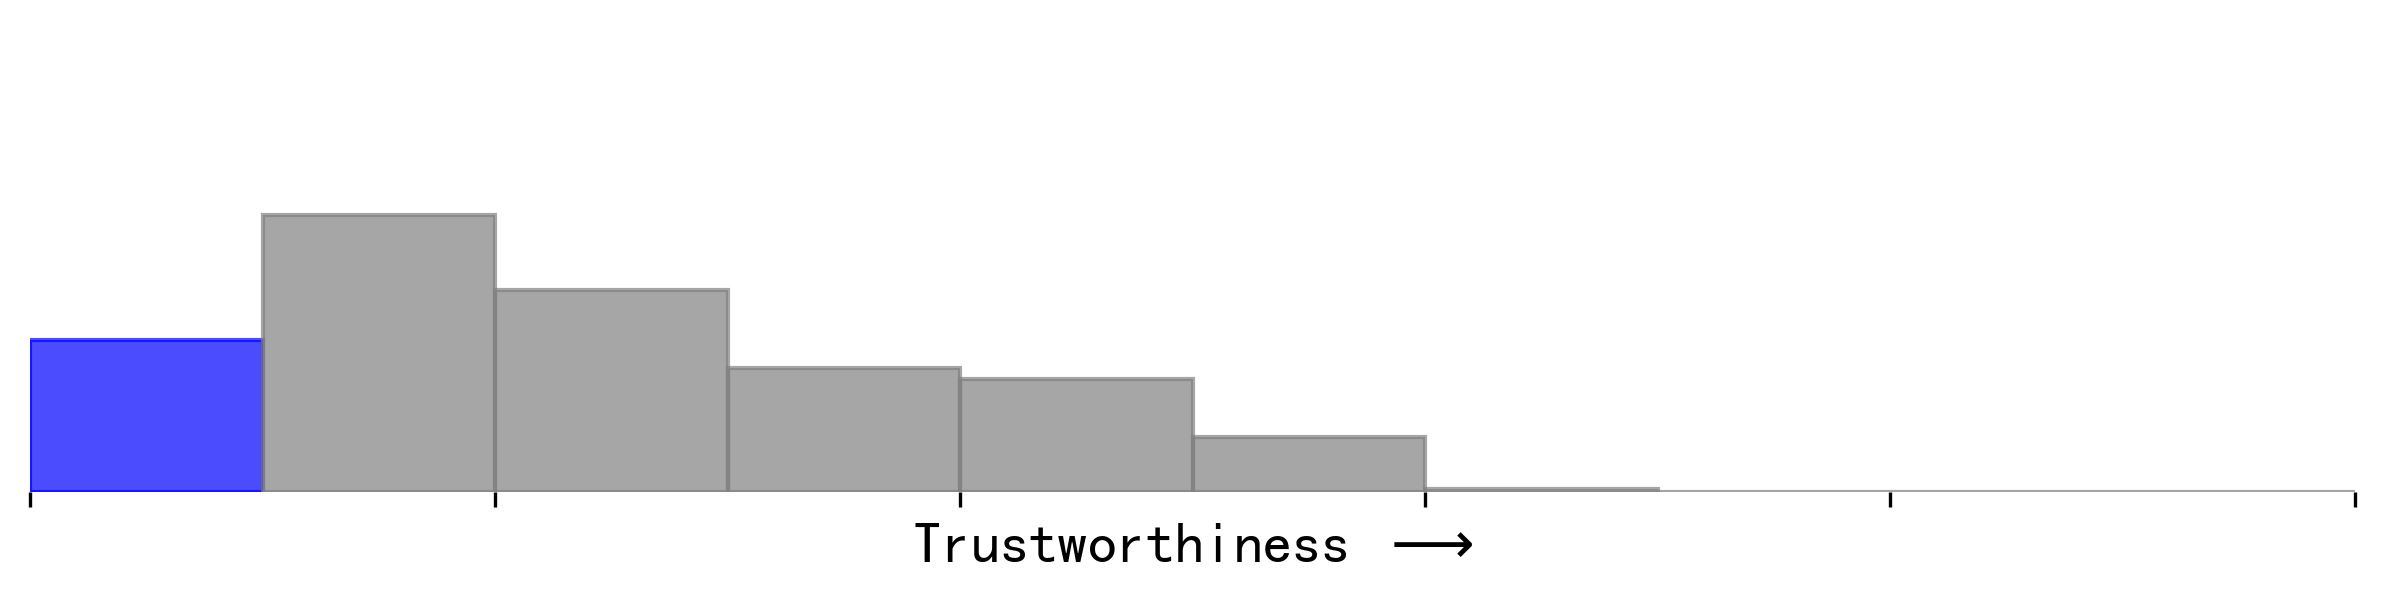
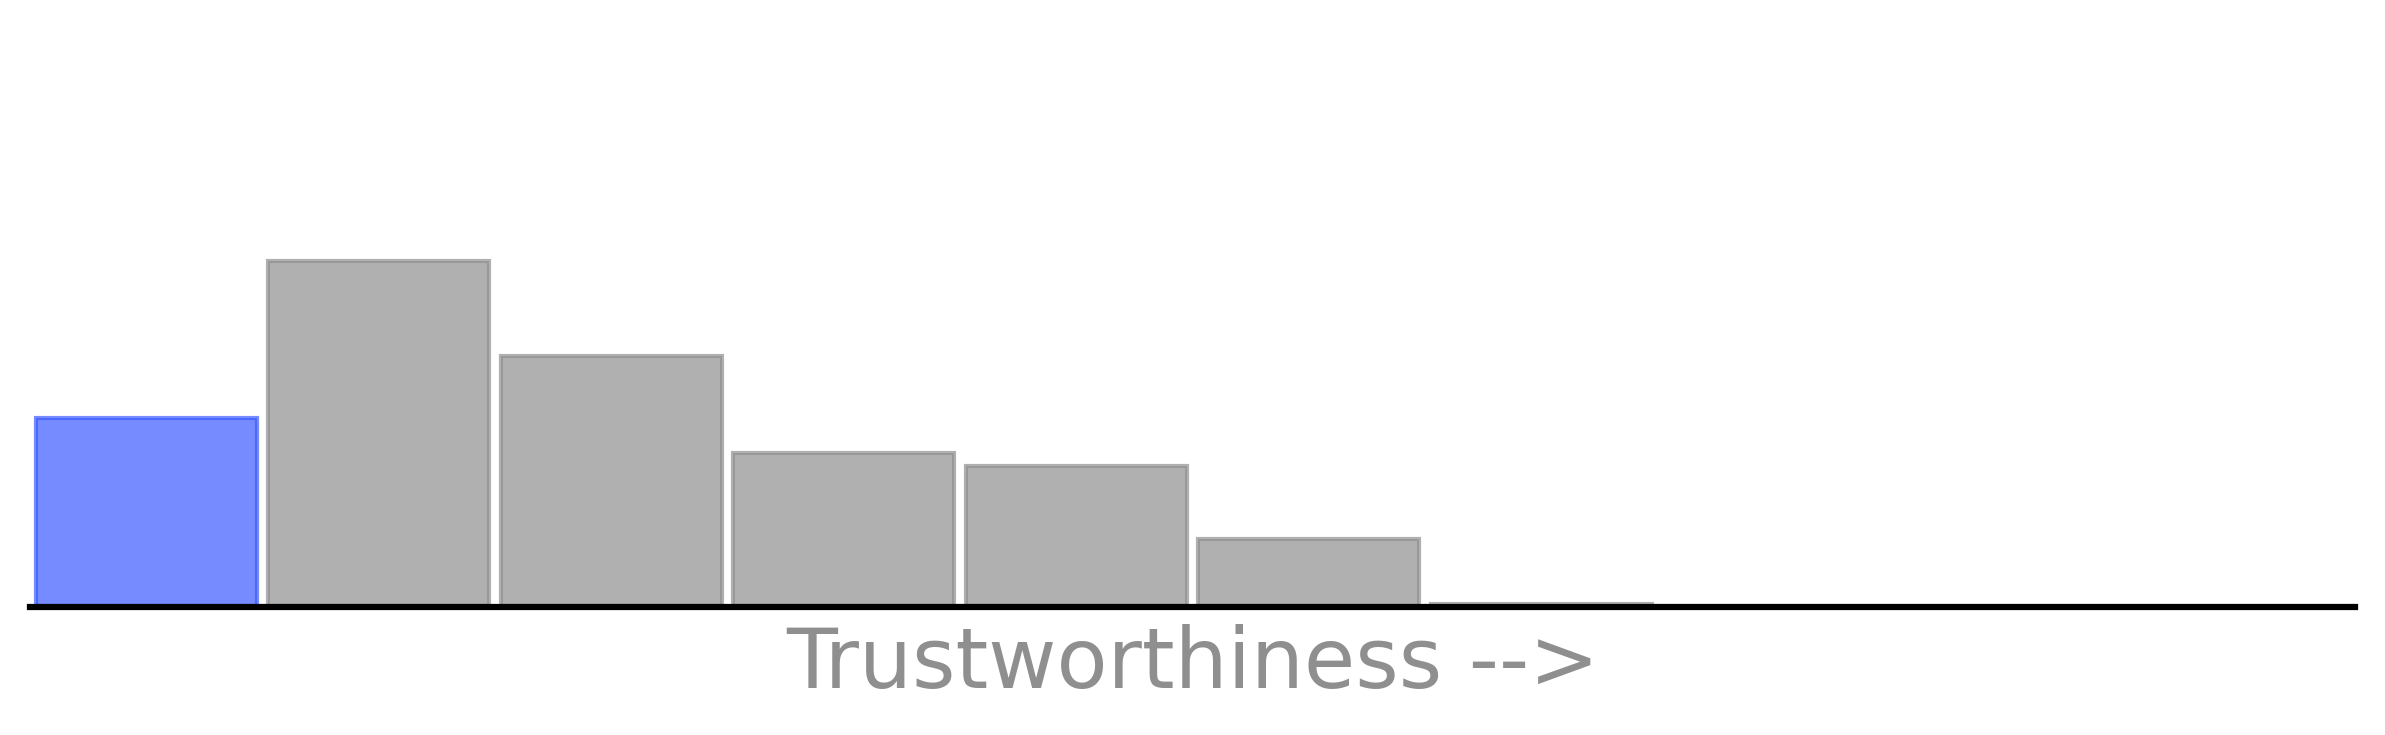
update the images

diff --git a/README.md b/README.md
@@ -11,7 +11,7 @@ This grade is based on the percentile rankings of the 4 repo scores below, which
 <summary><span style="font-size: 20px;"><strong>Maintenance -- </strong>Beats <strong><span style="color: blue;">11.1%</span></strong> Other Repos</summary>
 <div>
 <div align=center>
-  <img src="./images/voice_listener/maintenance.png" width="500px" height="125px">
+  <img src="./images/voice_listener/maintenance.png" width="500px" height="170px">
 </div>
 Activity and involvement by this project’s maintainer(s). Maintainers could increase these metrics by extending documentation and being more responsive to community participation (especially issues and PRs).<br><br>
 </div>
@@ -46,7 +46,7 @@ Activity and involvement by this project’s maintainer(s). Maintainers could in
 <summary><span style="font-size: 20px;"><strong>Contribution -- </strong>Beats <strong><span style="color: blue;">7.6%</span></strong> Other Repos</summary>
 <div>
 <div align=center>
-  <img src="./images/voice_listener/contribution.png" width="500px" height="125px">
+  <img src="./images/voice_listener/contribution.png" width="500px" height="170px">
 </div>
 Activity and involvement by this project’s contributors. Fostering and encouraging more contribution and participation would increase these metrics.<br><br>
 </div> 
@@ -77,7 +77,7 @@ Activity and involvement by this project’s contributors. Fostering and encoura
 <summary><span style="font-size: 20px;"><strong>Popularity -- </strong>Beats <strong><span style="color: blue;">8.8%</span></strong> Other Repos</summary>
 <div>
 <div align=center>
-  <img src="./images/voice_listener/popularity.png" width="500px" height="125px">
+  <img src="./images/voice_listener/popularity.png" width="500px" height="170px">
 </div>
 Activity and usage by this project’s consumers. Spreading this project to more users and maintaining it over time increases these metrics.<br><br>
 </div> 
@@ -112,7 +112,7 @@ Activity and usage by this project’s consumers. Spreading this project to more
 <summary><span style="font-size: 20px;"><strong>Code Quality -- </strong>Beats <strong><span style="color: blue;">10.7%</span></strong> Other Repos</summary>
 <div>
 <div align=center>
-  <img src="./images/voice_listener/code_quality.png" width="500px" height="125px">
+  <img src="./images/voice_listener/code_quality.png" width="500px" height="170px">
 </div>
 Security and review of the project’s code. Contributors can increase these metrics by maintaining the dependencies and setting up automated testing and procedural reviews.<br><br>
 </div>  
